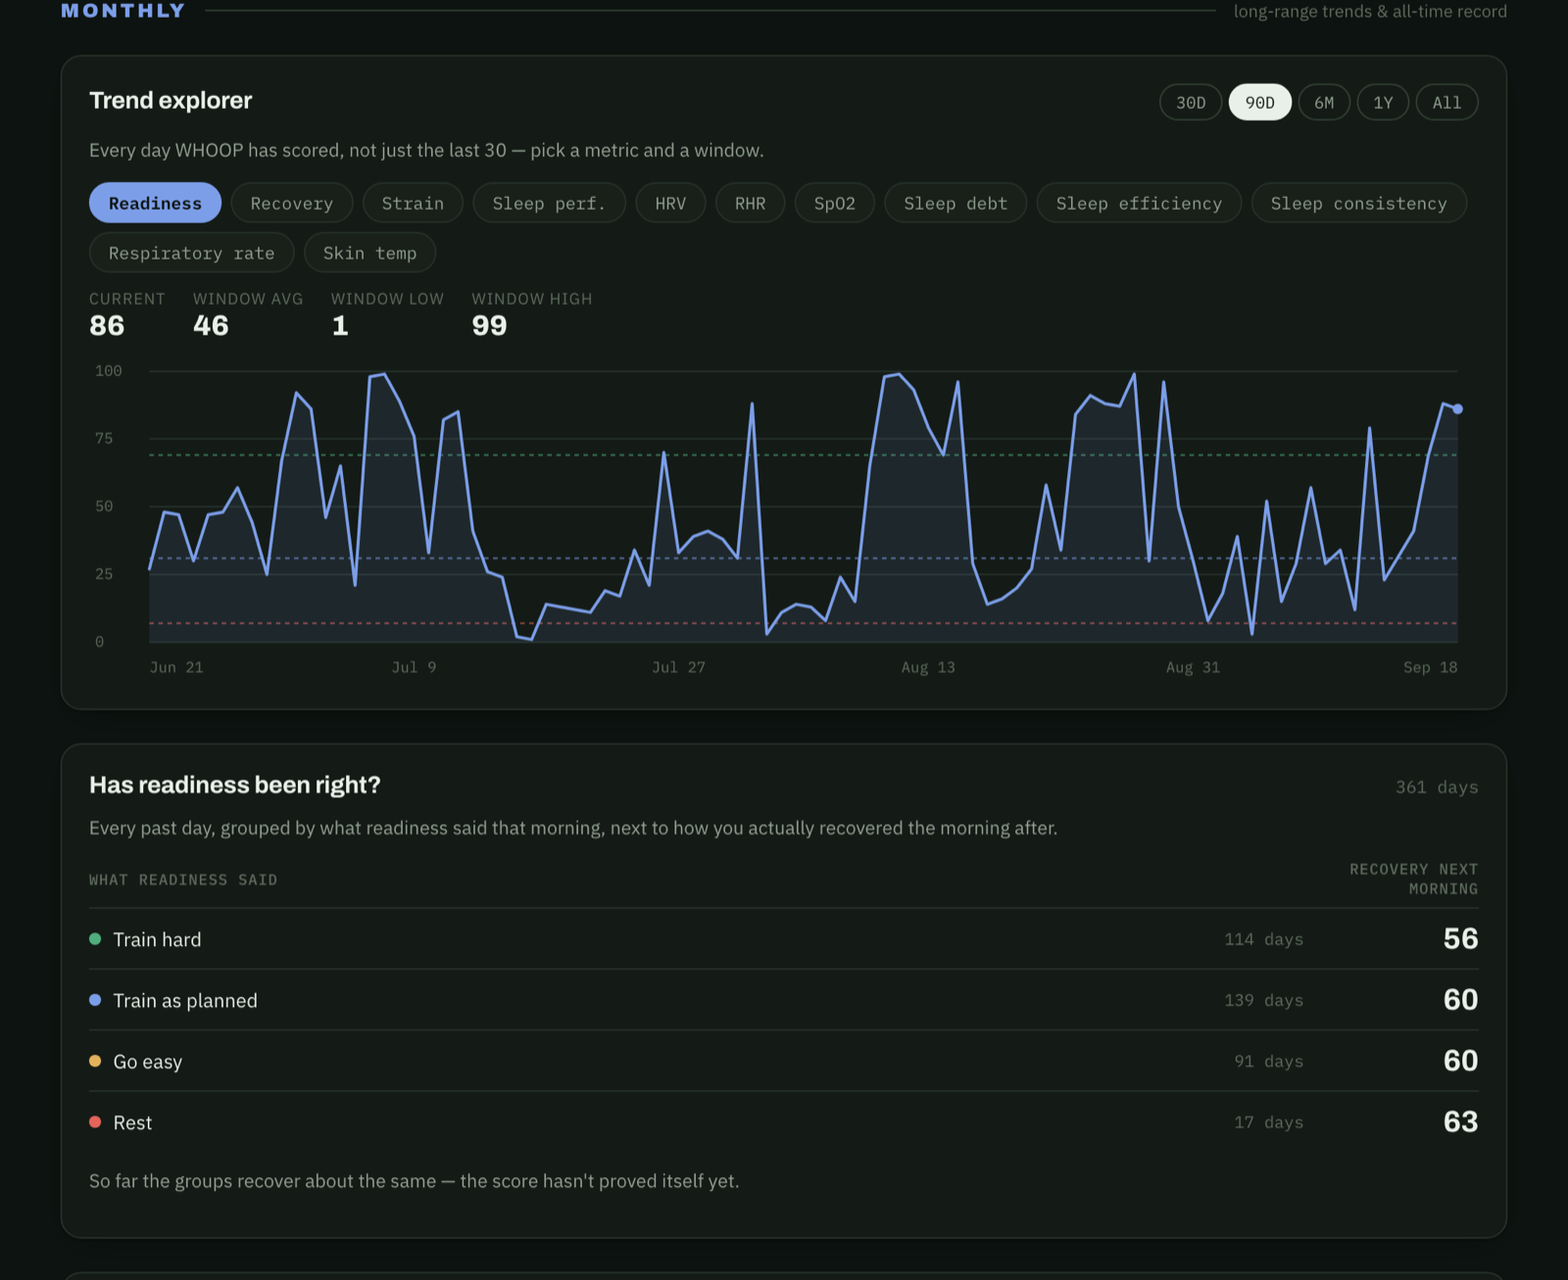
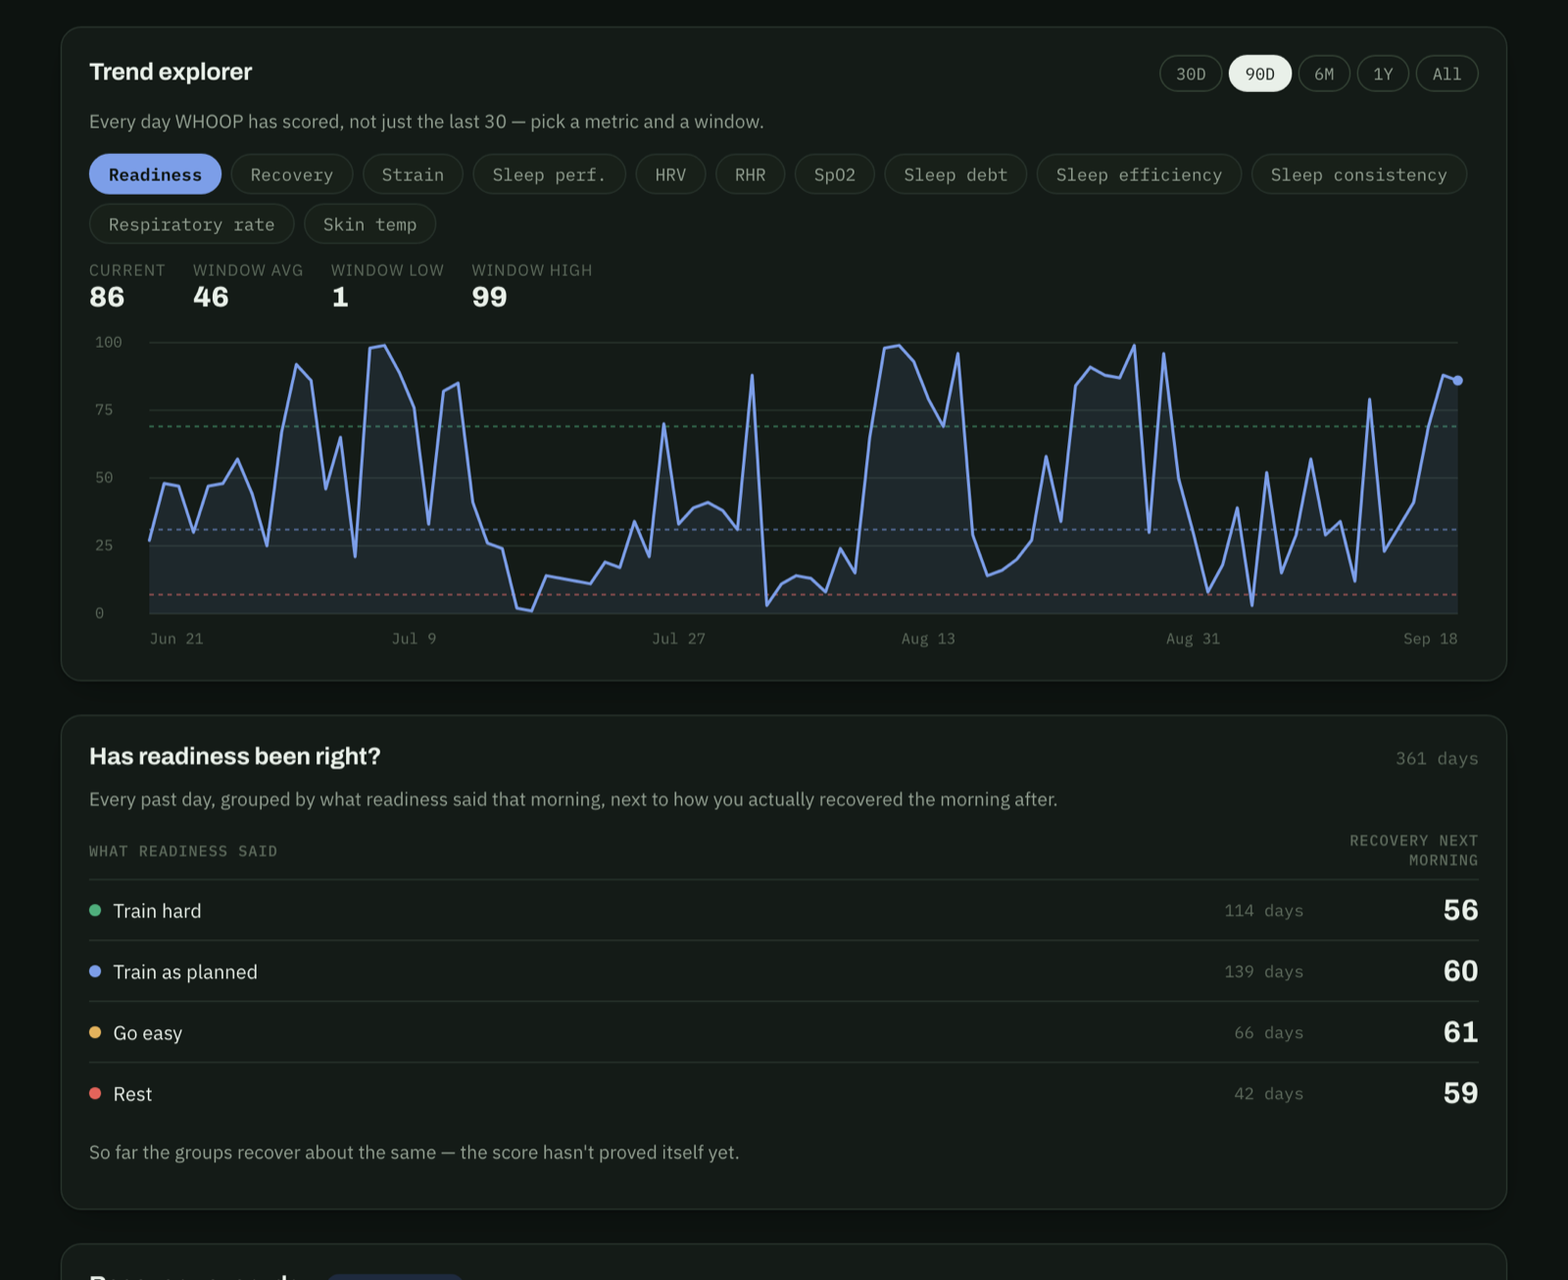
Rest on a run of low days, not only on one very low one
Rest only fired under 7 - about one day in 18 - which is not a usable rest
rule. The trials are clearer than the old implementation was: below the normal
band they prescribe "low intensity exercise (or passive rest)"
(Manresa-Rocamora 2021), so the whole band below normal is easy-or-rest
territory and something has to choose between the two.

The method papers say what to choose on. Plews 2013 and Buchheit 2014 read
these measures on sustained changes rather than one low night, so rest is now
the third day in a row below your normal - or, as before, a single very large
drop (under 7, 1.5 SD). Never more than two rest days in a row, the same limit
HRV-guided protocols put on consecutive rest days to avoid detraining, so a
long dip alternates rest and easy instead of becoming an open-ended rest block.

On this history that moves rest from 5.9% of days to 14% - about one a week -
and next-morning recovery still falls across the four answers in order:
60 / 52 / 44 / 42.

The panel now shows how often each answer actually comes up (from the answers
themselves, not the score bands) and a "days below your normal - rest at 3"
row, so the rule is visible before it fires.

diff --git a/dashboard_template.html b/dashboard_template.html
@@ -691,6 +691,7 @@ function reasonText(calc, key){
   }
   if(key === 'breathing') return `last night's breathing rate was ${one(R.breathing.value)} /min, 3 or more above your usual ${one(R.breathing.usual)} — a possible sign of illness`;
   if(key === 'streak') return `you've trained hard ${R.hard_days_in_a_row} days in a row (limit ${R.max_hard_days})`;
+  if(key === 'days_low') return `readiness has been below your normal ${R.days_below_normal} days in a row — a run of low days, not one low night, is what counts`;
   return '';
 }
 
@@ -1661,20 +1662,21 @@ window.addEventListener('resize', ()=>{ renderExplorer(); renderStageChart(); re
       }
       out.push(section('Today’s plan', 'score · how often'));
       const cur = calc.plan, L2 = R.lines;
-      // the cut-offs alone look like random numbers, so each is shown as what it has actually meant
-      // for you: the share of your scored days that landed in that band
+      // each line shown as what it has actually meant for you — the share of your days that got
+      // that answer, so the cut-offs read as your own history rather than as arbitrary numbers
       const all = DATA.full_series.readiness || [];
-      const share = (lo, hi) => !all.length ? '' :
-        `${Math.round(100 * all.filter(p => p.v >= lo && p.v <= hi).length / all.length)}% of days`;
-      const band = (label, key, lo, hi, text) =>
-        out.push(row(label, text, share(lo, hi), cur === key ? 'current' : ''));
-      band('Train hard', 'hard', L2.above, 100, `${L2.above}+`);
-      band('Train as planned', 'moderate', L2.train, L2.above - 1, `${L2.train}–${L2.above - 1}`);
-      band('Go easy', 'easy', L2.rest, L2.train - 1, `${L2.rest}–${L2.train - 1}`);
-      band('Rest', 'rest', 0, L2.rest - 1, `under ${L2.rest}`);
+      const share = key => !all.length ? '' :
+        `${Math.round(100 * all.filter(p => p.a === key).length / all.length)}% of days`;
+      const band = (label, key, text) =>
+        out.push(row(label, text, share(key), cur === key ? 'current' : ''));
+      band('Train hard', 'hard', `${L2.above}+`);
+      band('Train as planned', 'moderate', `${L2.train}–${L2.above - 1}`);
+      band('Go easy', 'easy', `${L2.rest}–${L2.train - 1}`);
+      band('Rest', 'rest', `under ${L2.rest}, or ${R.days_low_to_rest} days low`);
       out.push(section('Also checked', 'today / limit'));
       if(R.breathing) out.push(row('Breathing rate', `${one(R.breathing.value)} /min`, `rest at ${one(R.breathing.limit)}+`, R.breathing.flagged ? 'flagged' : ''));
       out.push(row('Hard days in a row', `${R.hard_days_in_a_row}`, `limit ${R.max_hard_days}`, R.hard_days_in_a_row >= R.max_hard_days ? 'flagged' : ''));
+      out.push(row('Days below your normal', `${R.days_below_normal}`, `rest at ${R.days_low_to_rest}`, R.days_below_normal >= R.days_low_to_rest ? 'flagged' : ''));
       for(const w of calc.sessions)
         out.push(row(`Today · ${w.sport}`, w.intensity ? INTENSITY_WORD[w.intensity] : 'strength', `${w.dur_min} min`, 'current'));
     }

diff --git a/build_dashboard.py b/build_dashboard.py
@@ -287,13 +287,18 @@ def build_sport_recovery_cost(day_sessions, recovery_by_day, all_sports=()):
 #     for last night alone (single days keep the response to yesterday visible: Schneider et al.
 #     2019; Kiviniemi et al. 2007; Nuuttila et al. 2024). Each becomes a standard score vs its own
 #     baseline (resting HR flipped, so higher = better); the score is their average with equal
-#     weights (no study gives validated weights: Dawes 1979) on the T scale, 50 + 10 × average
-#     — 50 = exactly your normal, 10 points = 1 SD.
+#     weights (no study gives validated weights: Dawes 1979), then standardised against the spread
+#     of the person's own earlier composites and shown as a percentile of them (`percentile_series`)
+#     — 50 = your median day; the SD lines above become 69 / 31 / 7.
 #   - Answer, the way the trials prescribed the day's session (Kiviniemi et al. 2007; Vesterinen
-#     et al. 2016; Javaloyes et al. 2019): above the normal band (55+, i.e. more than +0.5 SD, the
-#     smallest worthwhile change) → Train hard; inside the band (45–54) → Train as planned, the
-#     trials' moderate/prescribed session; below it (35–44) → Go easy; 1.5 SD or more below
-#     (under 35) → Rest, the line Thornton et al. 2019 give for a change worth acting on.
+#     et al. 2016; Javaloyes et al. 2019): above the normal band (69+, i.e. more than +0.5 SD, the
+#     smallest worthwhile change) → Train hard; inside the band → Train as planned, the trials'
+#     moderate/prescribed session; below it → Go easy or Rest ("low intensity exercise (or passive
+#     rest) is prescribed when values are suppressed" — Manresa-Rocamora et al. 2021). Rest when the
+#     fall is large (1.5 SD below, the line Thornton et al. 2019 give as worth acting on) or
+#     sustained — the third day in a row below the band, since the method papers act on a sustained
+#     fall rather than one low night (Plews et al. 2013; Buchheit 2014) — but never more than two
+#     rest days in a row (Kiviniemi et al. 2007 cap consecutive rest days; detraining).
 #     One prescription per day: the trials read HRV each morning and set that day's session.
 #   - No more than 2 hard (moderate/high-intensity) days in a row (Carrasco-Poyatos et al. 2020).
 #   - Breathing rate 3+ breaths/min above the person's usual rate (average of the nights 30–90
@@ -316,6 +321,13 @@ READY_LINES = {'above': round(normal_percentile(READY_SWC)),
                'train': round(normal_percentile(-READY_SWC)),
                'rest': round(normal_percentile(-READY_REST_SD))}
 MAX_HARD_DAYS_IN_A_ROW = 2
+# Below the normal band the trials prescribe "low intensity exercise (or passive rest)"
+# (Manresa-Rocamora et al. 2021). Which of the two is decided the way the method papers say to read
+# HRV — by a sustained fall, not one low night (Plews et al. 2013; Buchheit 2014): the third day in
+# a row below your normal is a rest day. Never more than two rest days in a row, the same limit
+# HRV-guided protocols put on consecutive rest days to avoid detraining (Kiviniemi et al. 2007).
+DAYS_LOW_TO_REST = 3
+MAX_REST_DAYS_IN_A_ROW = 2
 BREATHING_RISE = 3.0
 BREATHING_BASELINE = (30, 90)
 BREATHING_MIN_NIGHTS = 30
@@ -450,24 +462,38 @@ def build_readiness(hrv_by_day, rhr_by_day, rr_by_day, hard_days, sleep_h_by_day
     pct_all, pct_night = percentile_series(raw_all), percentile_series(raw_night)
 
     series, latest = [], None
+    scores, answers = {}, {}           # by day, for the sustained-suppression rule below
     for d in sorted(pct_all):
         hrv, rest, sleep, night = measured[d]
         score = pct_all[d][0]
+        scores[d] = score
         night_score, night_z = pct_night.get(d, (None, None))   # information only, same scale
         breathing = breathing_check(rr_by_day, d)
         streak = hard_days_in_a_row(hard_days, d)
+        days_below = 0                 # consecutive calendar days below the normal band, today included
+        cur = d
+        while scores.get(cur) is not None and scores[cur] < READY_LINES['train']:
+            days_below += 1
+            cur = _date_minus(cur, 1)
         if breathing and breathing['flagged']:
             answer, reasons = 'rest', ['breathing']
         elif score < READY_LINES['rest']:
             answer, reasons = 'rest', ['low']
         elif score < READY_LINES['train']:
-            answer, reasons = 'easy', ['low']
+            # below the normal band the trials prescribe low intensity OR rest; a sustained fall is
+            # what the method papers act on, and two rest days in a row is the limit
+            rested = [answers.get(_date_minus(d, k)) == 'rest' for k in (1, 2)]
+            if days_below >= DAYS_LOW_TO_REST and not all(rested):
+                answer, reasons = 'rest', ['days_low']
+            else:
+                answer, reasons = 'easy', ['low']
         elif streak >= MAX_HARD_DAYS_IN_A_ROW:
             answer, reasons = 'easy', ['streak']
         elif score < READY_LINES['above']:
             answer, reasons = 'moderate', []
         else:
             answer, reasons = 'hard', []
+        answers[d] = answer
         series.append({'date': d, 'v': score, 'answer': answer})
         marker = lambda m, unit_fn: None if m is None else {'value': unit_fn(m['avg']), 'normal': [unit_fn(m['lo']), unit_fn(m['hi'])],
                                                             'state': m['state']}
@@ -481,6 +507,7 @@ def build_readiness(hrv_by_day, rhr_by_day, rr_by_day, hard_days, sleep_h_by_day
                 'state': ('above' if night_z > READY_SWC else 'below' if night_z < -READY_SWC else 'within'),
                 'measures': sum(1 for m in night if m)},
             'breathing': breathing, 'hard_days_in_a_row': streak, 'max_hard_days': MAX_HARD_DAYS_IN_A_ROW,
+            'days_below_normal': days_below, 'days_low_to_rest': DAYS_LOW_TO_REST,
         }
     return latest, series
 
@@ -785,7 +812,8 @@ def build_summary(d):
     for sl in list(sleep) + list(naps):
         sleep_h_by_day[day(sl['created_at'])] += asleep_ms(sl) / 3600000
     readiness, readiness_series = build_readiness(hrv_by_day, rhr_by_day, rr_by_day, hard_days, sleep_h_by_day)
-    full['readiness'] = [{'date': p['date'], 'v': p['v']} for p in readiness_series]
+    # 'a' = the answer that day, so the page can show how often each one actually comes up
+    full['readiness'] = [{'date': p['date'], 'v': p['v'], 'a': p['answer']} for p in readiness_series]
     readiness_check = build_readiness_check(readiness_series, recovery_by_day)
     for entry, w in zip(wlog, wo):   # wlog was built in the same order as wo
         entry['intensity'] = None if w['sport_name'] in STRENGTH_SPORTS else session_level(

diff --git a/tests/test_readiness.py b/tests/test_readiness.py
@@ -17,7 +17,7 @@ LN_PATTERN = (0.0, 0.05, -0.05, 0.1, -0.1, 0.03, -0.03)
 HR_PATTERN = (0.0, 1.0, -1.0, 2.0, -2.0, 0.5, -0.5)
 
 
-def steady(n=112, hrv=80.0, rhr=55.0, rr=15.0):
+def steady(n=112, hrv=80.0, rhr=55.0, rr=15.0, flat_last=1):
     """Enough history for an answer (4 baseline weeks, then 4 weeks of scored days) and data that
     moves the way real data does: a level for each week and day-to-day noise on top. Without both,
     the score's own spread is near zero and one ordinary night reads as extreme.
@@ -35,7 +35,8 @@ def steady(n=112, hrv=80.0, rhr=55.0, rr=15.0):
         wk = [(rnd.gauss(0, 0.09), rnd.gauss(0, 1.8)) for _ in range(7)]
         mh, mr = mean(x[0] for x in wk), mean(x[1] for x in wk)
         noise += [(a - mh, b_ - mr) for a, b_ in wk]
-    noise[n - 1] = (0.0, 0.0)               # an utterly ordinary last night
+    for i in range(n - flat_last, n):       # utterly ordinary nights at the end
+        noise[i] = (0.0, 0.0)
     return ({d: hrv * math.exp(LN_PATTERN[i % 7] + level[i // 7] + noise[i][0]) for i, d in enumerate(ds)},
             {d: rhr + HR_PATTERN[i % 7] - 12 * level[i // 7] + noise[i][1] for i, d in enumerate(ds)},
             {d: rr + HR_PATTERN[i % 7] * 0.1 for i, d in enumerate(ds)}, ds)
@@ -141,6 +142,38 @@ class ProtocolTest(unittest.TestCase):
         self.assertEqual((latest['answer'], latest['reasons']), ('easy', ['streak']))
         latest, _ = bd.build_readiness(h, r, b, {ds[-2], ds[-4]})
         self.assertEqual(latest['answer'], 'moderate')
+
+    def test_rest_needs_a_run_of_low_days_not_one(self):
+        """Below the band the trials prescribe low intensity OR rest; a sustained fall - not one
+        low night - is what the method papers act on, so rest waits for the third day in a row."""
+        h, r, b, ds = steady(flat_last=8)
+        for d in ds[-8:]:                       # a sustained dip, mild enough to stay in the band
+            h[d] *= 0.93
+        _, series = bd.build_readiness(h, r, b, set())
+        lines, runs = None, {}
+        for p in series:
+            lines = lines or p
+            prev = (date.fromisoformat(p['date']) - timedelta(days=1)).isoformat()
+            runs[p['date']] = (runs.get(prev, 0) + 1) if p['v'] < 31 else 0
+        by_day = {p['date']: p for p in series}
+        rests = [d for d, p in by_day.items() if p['answer'] == 'rest']
+        self.assertTrue(rests, 'a sustained dip must produce rest days')
+        for d in rests:                         # every rest is a big drop or the 3rd low day
+            self.assertTrue(by_day[d]['v'] < 7 or runs[d] >= 3, (d, by_day[d]['v'], runs[d]))
+        for d, p in by_day.items():             # one or two low days on their own stay easy
+            if 7 <= p['v'] < 31 and runs[d] < 3:
+                self.assertEqual(p['answer'], 'easy', (d, p['v'], runs[d]))
+
+    def test_never_more_than_two_rest_days_in_a_row(self):
+        """A long dip must not turn into an open-ended rest block (detraining)."""
+        h, r, b, ds = steady(flat_last=8)
+        for d in ds[-8:]:
+            h[d] *= 0.93
+        _, series = bd.build_readiness(h, r, b, set())
+        answers = [p['answer'] for p in series]
+        self.assertIn('rest', answers[-8:])
+        for i in range(2, len(answers)):
+            self.assertNotEqual(answers[i - 2:i + 1], ['rest'] * 3, answers[-10:])
 
     def test_breathing_rate_3_above_usual_means_easy(self):
         h, r, b, ds = steady(n=100)

diff --git a/chat_server.py b/chat_server.py
@@ -66,7 +66,10 @@ HR flipped, averaged with equal weights (Thornton 2019), then standardised again
 own earlier scores and read off the normal curve as a percentile (averaging standard scores shrinks \
 their spread, so the average is not on a 1-SD scale of its own). It prescribes one session for \
 the day, the way the HRV-guided trials did: 69+ (above the +0.5 SD line) Train hard, 31–68 (inside the \
-band) Train as planned, 7–30 Go easy, under 7 Rest (1.5 SD below). Rest if breathing rate last night is 3+ \
+band) Train as planned, and below the band Go easy or Rest: rest when the fall is large (under 7, \
+1.5 SD below) or sustained - the 3rd day in a row below the band - and never more than 2 rest days in \
+a row (Manresa-Rocamora 2021 "low intensity exercise (or passive rest)"; Plews 2013 and Buchheit 2014 \
+on reading sustained rather than single-day changes; Kiviniemi 2007 on consecutive rest days). Rest if breathing rate last night is 3+ \
 above the usual (nights 30–90 days back; Natarajan 2021); Go easy after 2 hard days in a row \
 (Carrasco-Poyatos 2020). Once they have trained today the page shows "Done for today" — the day's plan \
 is spent — and says whether what they did matched the plan; recovery from a session takes about 24h \

diff --git a/README.md b/README.md
@@ -204,7 +204,8 @@ anything, and it is not comparable between people.
 | Your normal | The 4 weeks before the current week, updated weekly: 7-day averages compared with the spread of 7-day averages, last night compared with the spread of single nights; mean ± 0.5 SD (sample SD) is "normal" | [Vesterinen et al., 2016](https://jyx.jyu.fi/jyx/Record/jyx_123456789_50625); [Javaloyes et al., 2019](https://pubmed.ncbi.nlm.nih.gov/29809080/) — tabulated in [Manresa-Rocamora et al., 2021](https://pmc.ncbi.nlm.nih.gov/articles/PMC8507742/); weekly update: [Carrasco-Poyatos et al., 2020](https://pmc.ncbi.nlm.nih.gov/articles/PMC7432021/) |
 | One score | All six standard scores (resting HR flipped, so lower is better) averaged with equal weights | Standard-score composites for athlete monitoring: [Thornton et al., 2019](https://pubmed.ncbi.nlm.nih.gov/30676144/); equal weights when none are validated: [Dawes, 1979](https://www.researchgate.net/publication/232597503_The_robust_beauty_of_improper_linear_models_in_decision_making) |
 | On a readable scale | Averaging standard scores shrinks their spread — the measures move together, but not exactly — so the average is **not** on a 1-SD-per-unit scale of its own (measured here: 0.88 SD over 553 days, which made a genuinely above-normal day read as average). The average is standardised against the spread of your own earlier scores and shown as a percentile of them | Standardising a composite before applying SD cut-offs: Thornton 2019. The percentile itself is the normal curve (Φ), not a choice — no study prescribes a display scale, so nothing here is invented: the lines stay exactly the trials' SD lines |
-| Today's plan | **69+** above the normal band → **Train hard**; **31–68** inside it → **Train as planned** (the trials' prescribed session); **7–30** below it → **Go easy**; **under 7** → **Rest**. Those are the same ±0.5 SD and −1.5 SD lines, read on the percentile scale; on 553 days here they fell on 31.6%, 37.0%, 25.5% and 5.9% of days, against the 30.9 / 38.3 / 24.2 / 6.7% they are meant to cut off | ±0.5 SD decision line: Javaloyes 2019, [Kiviniemi et al., 2007](https://pubmed.ncbi.nlm.nih.gov/17849143/); 1.5 SD below "worth acting on": Thornton 2019 |
+| Today's plan | **69+** above the normal band → **Train hard**; **31–68** inside it → **Train as planned** (the trials' prescribed session); below the band → **Go easy** or **Rest**. The band edges are the same ±0.5 SD and −1.5 SD lines read on the percentile scale, and on 553 days here they fell on 31.6%, 37.0% and 31.4% of days, against the 30.9 / 38.3 / 30.9% they are meant to cut off | ±0.5 SD decision line: Javaloyes 2019, [Kiviniemi et al., 2007](https://pubmed.ncbi.nlm.nih.gov/17849143/); 1.5 SD below "worth acting on": Thornton 2019 |
+| Go easy or rest | Below the band the trials prescribe "low intensity exercise (or passive rest)". Rest when the fall is **large** (under 7, i.e. 1.5 SD below) or **sustained** — the **third day in a row** below your normal, because a run of low days, not one low night, is what these measures are read on. Never more than **2 rest days in a row**, the limit HRV-guided protocols put on consecutive rest days. Here that gives a rest day about once a week (14% of days) instead of once every 18 | "Low intensity exercise (or passive rest) … when values are suppressed": [Manresa-Rocamora et al., 2021](https://pmc.ncbi.nlm.nih.gov/articles/PMC8507742/); sustained rather than single-day changes: [Plews et al., 2013](https://pubmed.ncbi.nlm.nih.gov/23539308/), [Buchheit, 2014](https://www.frontiersin.org/journals/physiology/articles/10.3389/fphys.2014.00073/full); cap on consecutive rest days: Kiviniemi 2007 |
 | Illness sign | Breathing rate last night 3+ breaths/min above your usual (average of nights 30–90 days before, 30+ nights) → **Rest** | [Natarajan et al., 2021](https://pmc.ncbi.nlm.nih.gov/articles/PMC8443549/) |
 | Hard days in a row | After 2 moderate/high-intensity days in a row → **Go easy** | Carrasco-Poyatos 2020 |
 | Session today | The plan is **one session a day** — the trials read HRV each morning and set that day's session. Once you have trained, the card shows **Done for today** and whether what you did matched the plan; recovery takes ~24 h after a low or moderate session and ~48 h after a hard one | Daily prescription: Kiviniemi 2007, Vesterinen 2016, Javaloyes 2019; recovery time: [Stanley, Peake & Buchheit, 2013](https://link.springer.com/article/10.1007/s40279-013-0083-4) |

diff --git a/CLAUDE.md b/CLAUDE.md
@@ -51,7 +51,10 @@ python3 scripts/privacy_scan.py [--staged]          # must be clean before any p
   earlier composites (`percentile_series`, 28+ days — averaging z-scores shrinks the spread, so the average is
   NOT on a 1-SD scale; the old T scale made above-normal days read as average) and read off the normal curve.
   It sets the day's plan, one session a day as in the trials: 69+ Train hard · 31–68 Train as planned ·
-  7–30 Go easy · <7 Rest (`READY_LINES`, = +0.5/−0.5/−1.5 SD as percentiles); Rest on breathing +3/min; Go easy after 2 hard days in a row. Once any session is
+  below the band Go easy or Rest (`READY_LINES`, = +0.5/−0.5/−1.5 SD as percentiles). Rest when the fall is large
+  (<7) or sustained — 3rd day in a row below the band (`DAYS_LOW_TO_REST`), never 3 rest days in a row
+  (`MAX_REST_DAYS_IN_A_ROW`; Manresa-Rocamora 2021 "low intensity or passive rest"; Plews 2013/Buchheit 2014
+  sustained not single-day; Kiviniemi 2007 caps consecutive rest days). Rest on breathing +3/min; Go easy after 2 hard days in a row. Once any session is
   logged today the page shows "Done for today" (plan spent) unless the plan was Rest. Last night is information only. JP wants ONE score from all
   measures AND every rule sourced — keep both.
 - **Intensity** = Seiler zones (82% / 87% of max HR) converted from WHOOP heart-rate-reserve zones
